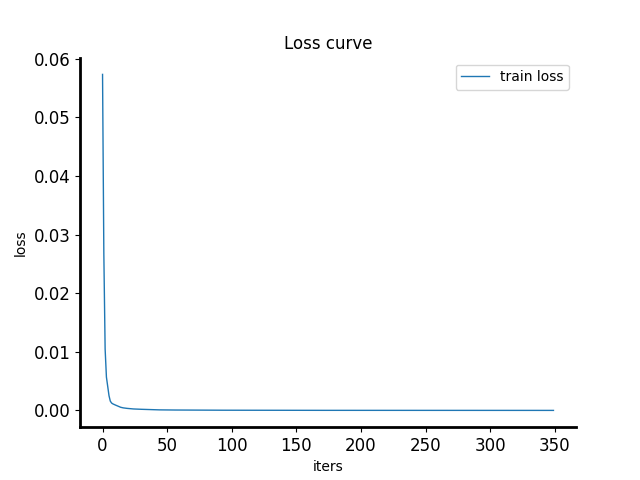
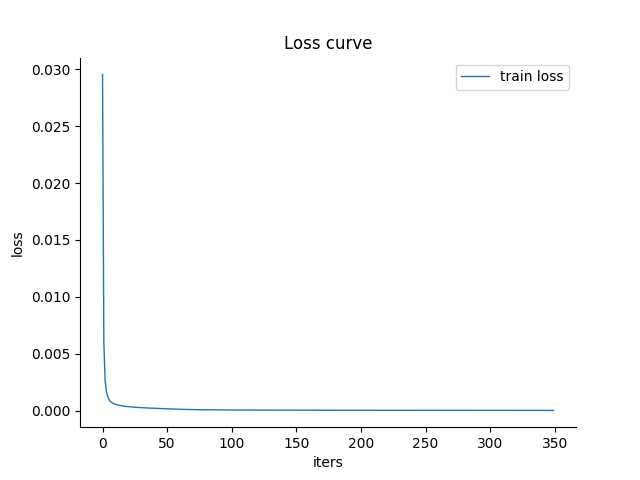
V3.1

diff --git a/test_model.py b/test_model.py
@@ -45,24 +45,77 @@ NMSE_state_list = []
 signal = 'NXP_100M'
 # signal = 'YU'
 count = 0
-for state in range(1):
+for state in range(3):
     x_train, y_train, x, y, fs, BW = fun.get_data(signal,state = state)
     figure_path = 'results/modeling/figure'
     if plot_swich:
         fun.PA_figure(x,y,fs,figure_path)
 
-    test_map = []
-    for prefix in ['DVRNN_ReLU_3_7_','DVRNN_ReLU_4_7_','DVRNN_ReLU_5_7_']:#'DVRNN_Tanh_5_10','DVRNN_Tanh_7_10','DVRNN_Tanh_7_15']: #'PNRVTDNN_ReLU_10_3_','PNRVTDNN_ReLU_10_5_',
-        NN_map = fun.generate_NN_map(prefix,3,[[6,12],[6,12],[6,12]],2)
-        test_map.extend(NN_map)
+    # test_map = []
+    # for prefix in ['DVRNN_ReLU_2_10_',]:#'DVRNN_Tanh_5_10','DVRNN_Tanh_7_10','DVRNN_Tanh_7_15']: #'PNRVTDNN_ReLU_10_3_','PNRVTDNN_ReLU_10_5_',
+    #     NN_map = fun.generate_NN_map(prefix,1,[[8,12],[10,12],[6,12]],1)
+    #     test_map.extend(NN_map)
     # 模型设置
-    # test_map = [
-    #     'DVRNN_ReLU_1_8',
-    #     'DVRNN_ReLU_1_10',
-    #     'DVRNN_ReLU_3_10_6',
-    #     # 'DVR_7_8_[0.1, 0.2, 0.4,0.5,0.6,0.7, 0.8]',
-    #     # 'DVR_7_10_[0.1, 0.2, 0.4,0.5,0.6,0.7, 0.8]',
-    # ]
+    test_map = [
+        # 'KFCNN_ReLU_1_7_7',
+        # 'KFCNN_ReLU_1_7_7_6_10',
+        # 'KFCNN_ReLU_2_7_7',
+        # 'KFCNN_ReLU_1_10_10',
+        # 'KFCNN_ReLU_3_7_7',
+        # 'KFCNN_ReLU_4_7_7',
+        # 'KFCNN_ReLU_2_10_10',
+        # 'KFCNN_ReLU_3_10_10',
+
+        'DVRNN_ReLU_1_10_6',
+        'DVRNN_ReLU_2_10_6',
+        'DVRNN_ReLU_1_10_12',
+        'DVRNN_ReLU_3_10_6',
+        'DVRNN_ReLU_2_10_12',
+        'DVRNN_ReLU_3_10_8_8',
+        'DVRNN_ReLU_3_10_10_12',
+        ]
+        # DVRNN_M10_K1_layer[11, 6, 11]_ReLU
+        # DVRNN_M10_K1_layer[11, 12, 11]_ReLU
+        # DVRNN_M10_K2_layer[11, 6, 22]_ReLU
+        # DVRNN_M10_K2_layer[11, 12, 22]_ReLU
+        # DVRNN_M10_K3_layer[11, 6, 33]_ReLU
+        # DVRNN_M10_K3_layer[11, 8, 8, 33]_ReLU
+        # DVRNN_M10_K3_layer[11, 10, 12, 33]_ReLU
+        # 'DVRNN_ReLU_1_10_6',
+        # 'DVRNN_ReLU_1_10_12',
+        # 'DVRNN_ReLU_2_10_6',
+        # 'DVRNN_ReLU_3_10_6',
+        # 'DVRNN_ReLU_2_10_12',
+        # 'DVRNN_ReLU_3_10_8_8',
+        # 'DVRNN_ReLU_3_10_10_12',
+        # 'DVRNN_ReLU_3_10_10_12',
+        # 'DVRNN_ReLU_1_8',
+        # 'DVRNN_ReLU_1_10',
+        # 'DVRNN_ReLU_3_10_6',
+        # 'DVR_7_9_[0.1, 0.2, 0.3,0.4,0.6,0.7, 0.8]',
+        # 'DVR_7_10_[0.1, 0.2, 0.4,0.5,0.6,0.7, 0.8]',
+        # 'VDTDNN_ReLU_5_2_8',
+        # 'VDTDNN_ReLU_5_2_6_10',
+        # 'VDTDNN_ReLU_5_3_8_10',
+        # 'VDTDNN_ReLU_5_2_12_10',
+        # 'VDTDNN_ReLU_15_1_8_10',
+        # 'VDTDNN_ReLU_10_3_8_20',
+        # 'VDTDNN_ReLU_10_3_16_16',
+        # 'VDTDNN_Tanh_20_3_16',
+        # 'VDTDNN_ReLU_20_3_16_16',
+        # 'DVR_2_7_[0.2,0.5]',
+        # 'DVR_4_5_[0.2,0.4,0.6,0.8]',
+        # 'DVR_3_8_[0.2,0.5,0.8]',
+        # 'DVR_3_10_[0.2,0.5,0.8]',
+        # 'DVR_5_8_[0.2,0.4,0.6,0.7,0.8]',
+        # 'DVR_5_10_[0.2,0.4,0.6,0.7,0.8]',
+        # 'DVR_7_8_[0.1,0.2,0.3,0.4,0.5,0.6,0.8]',
+
+        # 'GMP_[9, 3, 3]_[3, 3, 3]_[2, 2]',
+        # 'GMP_[21, 21, 21]_[2, 2, 2]_[2, 2]',
+        # 'GMP_[17, 17, 17]_[5, 2, 2]_[3, 3]',
+        # 'GMP_[21, 19, 17]_[5, 2, 3]_[3, 2]',
+        # 'GMP_[17, 20, 15]_[3, 3, 3]_[3, 3]'
     #     'GMP_[5, 5, 5]_[3, 3, 3]_[2, 2]',
     #     'GMP_[5, 5, 5]_[5, 5, 5]_[3, 3]',
     #     'GMP_[7, 7, 7]_[5, 5, 5]_[3, 3]',
@@ -113,7 +166,7 @@ for state in range(1):
             logger.info(f'------------------------{Model[0]}_M{M}_K{K}-------------------------------')
             # 初始化模型
             dvr = DVR.DVR(M=M, threshold=threshold)
-            coef = dvr.DVR_e(x_train, y_train, alpha=1e-3)
+            coef = dvr.DVR_e(x_train, y_train, alpha=3e-1)
             y_pred = dvr.DVR_v(x_train, coef)
             logger.info(f'{Model[0]} train NMSE:')
             NMSE = cal.nmse(y_train[M + 11:], y_pred[M + 11:], logger, 1)
@@ -128,7 +181,7 @@ for state in range(1):
             filename = f"GMP_K{K}_L{L}_M{M}_{time.strftime('%Y%m%d%H%M')}"
             logger.info(f'----------------{Model[0]}_K{K}_L{L}_M{M}--------------------')
             start_time = time.time()  # 记录开始时间
-            coef = GMP.model_e(x_train, y_train,alpha=1e-4)
+            coef = GMP.model_e(x_train, y_train,alpha=5e-4)
             end_time = time.time()  # 记录结束时间
             elapsed_time = end_time - start_time
             # logger.info(f"model train time: {elapsed_time:.6f} s")
@@ -156,16 +209,16 @@ for state in range(1):
                 size = ast.literal_eval(size_str)
                 layer_dims.append(size)
             layer_dims.append(output_size)
-
-            model_path = f"{file_path}save/{Model[0]}_M{M}_M2{M2}_K{K}_layer{layer_dims}_{activation}_{time.strftime('%Y%m%d%H%M')}.pt"
+            layer_dims_phase = [2 * (M2 + 1), M2 + 1, (M + 1) * K * 2]
+            model_path = f"{file_path}save/{Model[0]}_M{M}_M2{M2}_K{K}_layer{layer_dims}_Phase{layer_dims_phase}_{activation}_{time.strftime('%Y%m%d%H%M')}.pt"
 
             # trained_model = 'results/20250519/save/OB_DVR_NN_M15_K3_Tanh_202507201242.pt'# 好用
             trained_model = 'results/20250519/save/VD_DVR_NN_M30_M231_K3_Tanh_202508051529.pt' #很好
             # trained_model = 'results/20250519/save/VD_DVR_NN_M10_K1_Tanh_202508031410.pt' #LMBA
             logger.info(f'------signal BW{BW / 1e6}M fs{fs / 1e6}MHz------')
-            logger.info(f'------------------------{Model[0]}_M{M}_M2{M2}_K{K}_layer{layer_dims}_{activation}-------------------------------')
+            logger.info(f'------------------------{Model[0]}_M{M}_M2{M2}_K{K}_layer{layer_dims}_Phase{layer_dims_phase}_{activation}-------------------------------')
             # 初始化模型
-            model = KFCNN.KFC_NN(layer_dims=layer_dims, K=K, M=M,M2=M2, activation=activation).to(device)
+            model = KFCNN.KFC_NN(layer_dims=layer_dims,layer_dims_phase=layer_dims_phase, K=K, M=M,M2=M2, activation=activation).to(device)
             fun.model_structure(model, logger)
 
 
@@ -185,11 +238,17 @@ for state in range(1):
                 y_sequences = fun.create_memory_seq(y_coef, M2)  # [N, M+1]
                 y_coef_window = torch.from_numpy(y_sequences).to(device)
                 model.coef = model.DVR_NN_e(x_coef_window,y_coef_tensor,alpha=1e-2,pri=1)
+
+                y_pred = model.apply_dpd(x_train,model.coef)
+                logger.info(f'{Model[0]} train NMSE:')
+                NMSE = cal.nmse(y_train[M + 11:], y_pred[M + 11:], logger, 1)
+
                 y_pred = model.apply_dpd(x,model.coef)
                 end_time = time.time()  # 记录结束时间
                 elapsed_time = end_time - start_time
                 logger.info(f"model prediction time: {elapsed_time:.6f} s")
                 logger.info(f'COEF number: {len(model.coef)} ')
+                # NMSE, ACLR, NMSE_pred, ACLR_pred = fun.calculate_CRZ(x, y, y_pred, fs, BW, figure_path, Model[0], 1,logger, type='model')
             else:
                 N_train = min(50000,len(x_train))
                 model.load_state_dict(torch.load(trained_model))
@@ -313,6 +372,10 @@ for state in range(1):
                 model.load_state_dict(torch.load(model_path))
                 logger.info(f"-------------------load model: {model_path}---------------------")
                 coef = model.DVR_NN_e(x_train, y_train,alpha=1e-4)
+                y_pred = model.DVR_NN_v(x_train,coef)
+                logger.info(f'{Model[0]} train NMSE:')
+                NMSE = cal.nmse(y_train[M + 11:], y_pred[M + 11:], logger, 1)
+
                 start_time = time.time()  # 记录开始时间
                 # y_pred = model.apply_dpd(x)
                 y_pred = model.DVR_NN_v(x,coef)
@@ -398,7 +461,7 @@ for state in range(1):
 
             if total_train == 1:
                 # model.load_state_dict(torch.load(trained_model))
-                model.model_train(x_train, y_train, model_path, logger, 1,para = [0.001,250,512])
+                model.model_train(x_train, y_train, model_path, logger, 1,para = [0.001,350,128])
                 model.load_state_dict(torch.load(model_path))
                 logger.info(f"-------------------load model: {model_path}---------------------")
                 start_time = time.time()  # 记录开始时间

diff --git a/Model/KFC_NN.py b/Model/KFC_NN.py
@@ -11,7 +11,7 @@ from matplotlib import pyplot as plt
 import Model.volterra_nn as volterra_nn
 
 class KFC_NN(nn.Module):
-    def __init__(self, layer_dims,K, M, M2,  activation="ReLU"):
+    def __init__(self, layer_dims,layer_dims_phase,K, M, M2,  activation="ReLU"):
         super().__init__()
         # self.total_train = 1
         self.name = 'KFCNN'
@@ -26,7 +26,7 @@ class KFC_NN(nn.Module):
         self.phase_layers = nn.Sequential()
 
         layer_dims_amp = layer_dims
-        layer_dims_phase = [2 * (M2 + 1),M2+1,(M + 1) * K * 2]
+        # layer_dims_phase = [2 * (M2 + 1),M2+1,(M + 1) * K * 2]
         for index, (in_dim, out_dim) in enumerate(zip(layer_dims_amp[:-1], layer_dims_amp[1:])):
             self.DVR_layers.add_module("linear " + str(index), nn.Linear(in_dim, out_dim).double())
             if activation == "ReLU":
@@ -53,7 +53,7 @@ class KFC_NN(nn.Module):
         if self.activation != "ABS":
             self.phase_layers = self.phase_layers[:-1]  # remove the last activation layer
 
-        self.linear = nn.Linear((K * (M + 1)) * 2, 2, bias=False).double()
+        self.linear = nn.Linear((K * (M + 1)+M+1) * 2, 2, bias=False).double()
 
         if self.activation != "ABS":
             if self.activation == "ReLU":
@@ -134,16 +134,14 @@ class KFC_NN(nn.Module):
                 # 生成基函数 [batch, num_basis]
                 amp_basis = self.get_basis_amp(batch_x_signal)
                 # 计算正交性损失
-                ortho_loss = self.orthogonal_loss(amp_basis)
+                # ortho_loss = self.orthogonal_loss(amp_basis)
 
                 targets = targets.to(device)
                 targets_real = torch.view_as_real(targets)
                 targets_real = targets_real.to(device)
                 coef = self.DVR_NN_e(batch_x_signal,targets)
-
-                # outputs = model(inputs)
                 outputs = self(batch_x_signal,coef)
-
+                # outputs = self(batch_x_signal)
                 # 计算预测损失
                 mse_loss = criterion(outputs, targets_real)
                 # 总损失 = 预测损失 + 正交性损失权重
@@ -159,7 +157,7 @@ class KFC_NN(nn.Module):
                 total_loss.backward()
                 optimizer.step()
                 train_loss_total += mse_loss.item()
-                ortho_loss_total += ortho_loss.item()
+                # ortho_loss_total += ortho_loss.item()
 
             # 验证
             self.eval()
@@ -174,17 +172,17 @@ class KFC_NN(nn.Module):
                     targets_real = targets_real.to(device)
 
                     coef = self.DVR_NN_e(batch_x_signal, targets)
-                    # outputs = model(inputs)
-                    val_outputs = self(batch_x_signal,coef)
+                    val_outputs = self(batch_x_signal, coef)
+                    # val_outputs = self(batch_x_signal)
                     val_loss_total += criterion(val_outputs, targets_real).item()
 
             # 计算平均损失
             avg_train_loss = train_loss_total / len(train_loader)
-            avg_ortho_loss = ortho_loss_total / len(train_loader)
+            # avg_ortho_loss = ortho_loss_total / len(train_loader)
             avg_val_loss = val_loss_total / len(val_loader)
 
             train_loss_list.append(avg_train_loss)
-            ortho_loss_list.append(avg_ortho_loss)
+            # ortho_loss_list.append(avg_ortho_loss)
             val_loss_list.append(avg_val_loss)
             # # 记录指标
             # metrics = {
@@ -211,7 +209,7 @@ class KFC_NN(nn.Module):
                 # logger.info(f"Model improved, saved to {model_path}")
             # print(f'Epoch {epoch + 1:02} | Train Loss: {train_loss / len(train_loader):.6f} | Val Loss: {val_loss / len(val_loader):.6f} | save:{save}')
             logger.info(
-                f'Epoch {epoch + 1:03} | Train Loss: {avg_train_loss:.7f} | Ortho Loss: {avg_ortho_loss:.7f} | Val Loss: {avg_val_loss:.7f} | save:{save}')
+                f'Epoch {epoch + 1:03} | Train Loss: {avg_train_loss:.7f} | Val Loss: {avg_val_loss:.7f} | save:{save}')
             if save == 0:
                 nosave_count = nosave_count + 1
             else:
@@ -337,7 +335,7 @@ class KFC_NN(nn.Module):
         # DVR_out_DDR_1 = DVR_core * DVR_X
         # DVR_out_DDR_2 = DVR_core * DVR_xn * DVR_xn * torch.conj(DVR_X)
         #
-        # DVR_out_full = torch.concatenate((DVR_out_full, DVR_out_linear, DVR_out_1, DVR_out_21, DVR_out_22, DVR_out_23, DVR_out_DDR_1,DVR_out_DDR_2), dim=1)
+        DVR_out_full = torch.concatenate((DVR_out_full,DVR_out_linear ), dim=1)#DVR_out_linear
         # # 添加正交化层
         # # 使用QR分解（更稳定）
         # # Q, R = torch.linalg.qr(DVR_out_full,mode='reduced')

diff --git a/Model/DVR_NN.py b/Model/DVR_NN.py
@@ -559,7 +559,7 @@ class DVR_NN(nn.Module):
                 # self.DDR_layers.add_module("actFunc " + str(index), nn.GELU())
             # self.layers.add_module("dropout" + str(index), nn.Dropout(0.2))
         self.DVR_layers = self.DVR_layers[:-1]  # remove the last activation layer
-        self.linear = nn.Linear((K*(M+1)*6+M+1)*2, 2,bias=False).double()
+        self.linear = nn.Linear((K*(M+1)*3+M+1)*2, 2,bias=False).double() #+M+1
         if self.activation != "ABS":
             if self.activation == "ReLU":
                 self.act = nn.ReLU()
@@ -767,16 +767,38 @@ class DVR_NN(nn.Module):
         # else:
         #     DDR_core = self.act(DDR_amp)
 
+
+        e_Phase_m = DVR_phase
+        e_Phase_n = DVR_xn/DVR_xn_amp #torch.exp(1j * Phase_n)
+        DDR31 = DVR_xn * DVR_xn * torch.conj(DVR_X)
+        e_Phase_DDR31 = DDR31/torch.abs(DDR31)
+        DDR32 = DVR_X * DVR_X * torch.conj(DVR_xn)
+        e_Phase_DDR32 = DDR32 / torch.abs(DDR32)
+        DDR51 = DVR_xn * DVR_xn * DVR_xn * torch.conj(DVR_X) * torch.conj(DVR_X)
+        e_Phase_DDR51 = DDR51 / torch.abs(DDR51)
+        DDR52 = DVR_X * DVR_X * DVR_X * torch.conj(DVR_xn) * torch.conj(DVR_xn)
+        e_Phase_DDR52 = DDR52 / torch.abs(DDR52)
+
+
         # DVR basis
         DVR_out_linear = X_tensor  # (16384,M+1)
-        DVR_out_1 = DVR_core * DVR_phase  # (16384,(M+1)*K)
-        DVR_out_21 = DVR_core * DVR_phase * DVR_xn_amp  # (16384,(M+1)*K)
-        DVR_out_22 = DVR_core * DVR_xn
-        DVR_out_23 = DVR_core * DVR_X
-        DVR_out_DDR_1 = DVR_core * DVR_X
-        DVR_out_DDR_2 = DVR_core * DVR_xn * DVR_xn * torch.conj(DVR_X)
+        # DVR_out_1 = DVR_core * DVR_phase  # (16384,(M+1)*K)
+        # DVR_out_21 = DVR_core * DVR_phase * DVR_xn_amp  # (16384,(M+1)*K)
+        # DVR_out_22 = DVR_core * DVR_xn
+        # DVR_out_23 = DVR_core * DVR_X
+        # DVR_out_DDR_1 = DVR_core * DVR_X
+        # DVR_out_DDR_2 = DVR_core * DVR_xn * DVR_xn * torch.conj(DVR_X)
 
-        DVR_out_full = torch.concatenate((DVR_out_linear, DVR_out_1, DVR_out_21, DVR_out_22, DVR_out_23, DVR_out_DDR_1,DVR_out_DDR_2), dim=1)
+        DVR_out_m = DVR_core * e_Phase_m
+        DVR_out_n = DVR_core * e_Phase_n
+        DVR_out_nm = DVR_core * e_Phase_n / e_Phase_n
+        DVR_out_DDR31 = DVR_core * e_Phase_DDR31
+        DVR_out_DDR32 = DVR_core * e_Phase_DDR32
+        DVR_out_DDR51 = DVR_core * e_Phase_DDR51
+        DVR_out_DDR52 = DVR_core * e_Phase_DDR52
+
+        # DVR_out_n,DVR_out_DDR31,DVR_out_DDR32,DVR_out_DDR51,DVR_out_DDR52
+        DVR_out_full = torch.concatenate(( DVR_out_linear,DVR_out_m,DVR_out_n,DVR_out_nm), dim=1) #  DVR_out_linear,DVR_out_1, DVR_out_21,DVR_out_22, DVR_out_23, DVR_out_DDR_1,DVR_out_DDR_2
         return DVR_out_full
 
     def DVR_NN_e(self,x,y,alpha = 1e-2):
